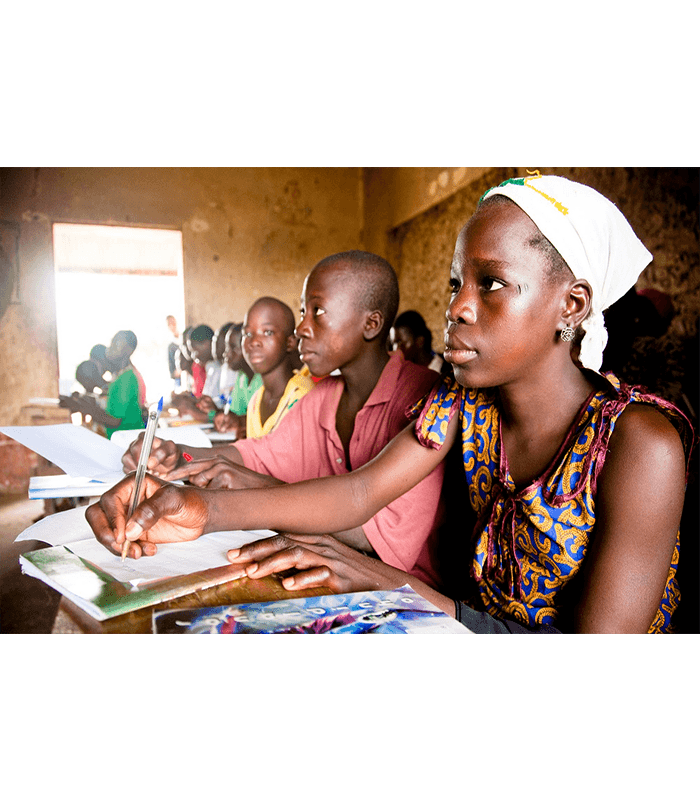
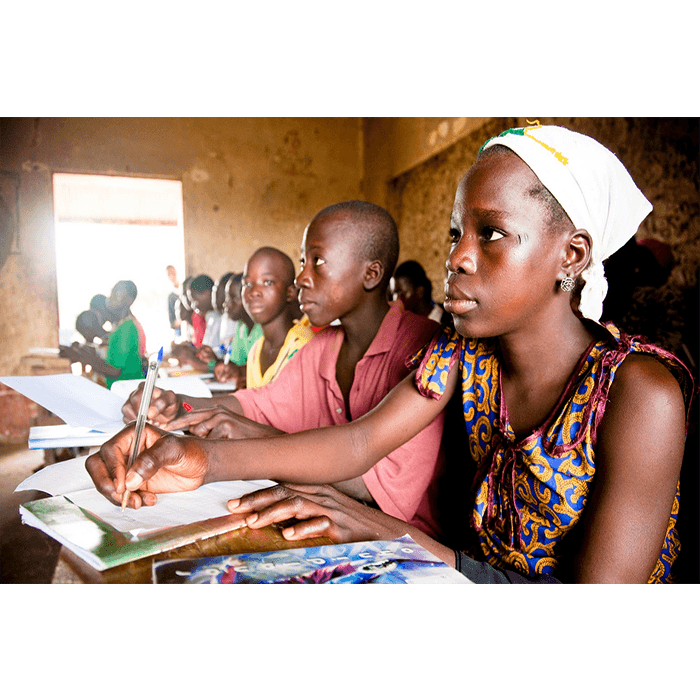
Commit

diff --git a/src/components/decades/1970s/style-1970.css b/src/components/decades/1970s/style-1970.css
@@ -4,7 +4,7 @@
   display: flex;
   max-width: 100%;
   flex: 0 0 100%;
-  padding: 3.5em 5em;
+  padding: 80px;
   justify-content: center;
 }
 
@@ -27,12 +27,13 @@
 }
 
 .small {
-  display: flex;
-  max-width: 760px;
+  flex: 0 0 80%;
+  max-width: 80%;
 }
 
 .wide {
   flex: 0 0 115%;
+  max-width: 115%;
 }
 
 .event-container-sm {
@@ -60,9 +61,9 @@
   flex-direction: column;
   text-align: left;
   flex: 0 0 60%;
-  padding-top: 0;
+  padding: 80px 70px;
+  justify-content: center;
   align-items: flex-start;
-  align-content: flex-start;
 }
 
 .endcap {
@@ -222,6 +223,14 @@ p.blurb {
   font-size: 0.9em;
   font-style: italic;
   width: 40%;
+  margin-top: 5px;
+}
+
+.caption-right {
+  font-size: 0.8rem;
+  float: right;
+  font-style: italic;
+  width: 60%;
   margin-top: 5px;
 }
 
@@ -391,6 +400,11 @@ img {
   margin: 0;
 }
 
+.narrative img {
+  width: 50%;
+  margin: 0 auto;
+}
+
 .profile-content {
   width: 45%;
 }
@@ -419,6 +433,48 @@ img {
 /* extras */
 img.ani:hover {
   margin-top: -30px;
+}
+
+.multi-gradient {
+  background: linear-gradient(
+    45deg,
+    hsla(269, 49%, 37%, 1) 0%,
+    hsla(347, 68%, 39%, 1) 54%,
+    hsla(45, 67%, 52%, 1) 100%
+  );
+  background: -moz-linear-gradient(
+    45deg,
+    hsla(269, 49%, 37%, 1) 0%,
+    hsla(347, 68%, 39%, 1) 54%,
+    hsla(45, 67%, 52%, 1) 100%
+  );
+  background: -webkit-linear-gradient(
+    45deg,
+    #5d308d 0%,
+    #a7203d 54%,
+    hsla(45, 67%, 52%, 1) 100%
+  );
+}
+
+.gradient-yr {
+  background: linear-gradient(
+    130deg,
+    hsla(347, 68%, 39%, 1) 40%,
+    hsla(45, 67%, 52%, 1) 100%
+  );
+  color: #ffffff;
+}
+
+.gradient-border {
+  border-image-slice: 1;
+  border: 10px solid white;
+  border-width: 5px;
+}
+.gradient-border-multi {
+  border-width: 14px;
+  border-style: solid;
+  border-image: linear-gradient(45deg, #a7203d, #5d308d) 1;
+  height: 95%;
 }
 
 @media (max-width: 767px) {

diff --git a/src/components/decades/2000s/Event7-wangari.jsx b/src/components/decades/2000s/Event7-wangari.jsx
@@ -2,18 +2,18 @@ import "./style-2000.css";
 
 const Event7 = () => {
   return (
-    <div className="event-container narrative panel-gray">
+    <div className="event-container narrative panel-purple">
       <div>
-        <h1 className="honors-gray">Challenger</h1>
+        <h1 className="honors-white">Challenger</h1>
         <h1 className="date">April 26</h1>
-        <h1 className="year-sm purple-txt">2006</h1>
+        <h1 className="year-sm white-txt">2006</h1>
         <h2>Inspiring peace</h2>
         <p>
           Kenyan environmentalist and political activist{" "}
           <strong>Wangari Maathai</strong>, winner of the 2004 Nobel Peace
           Prize—the first African woman to be so honored—
           <a
-            className="purple-txt"
+            className="white-txt"
             href="https://www.cmc.edu/athenaeum/historical-archives-apr-26-2006"
             aria-label="Athenaeum Archive (opens in new tab)"
             target="_blank"

diff --git a/src/components/decades/1980s/style-1980.css b/src/components/decades/1980s/style-1980.css
@@ -70,38 +70,6 @@ ul {
   margin-top: -20%;
 }
 
-.multi-gradient {
-  background: linear-gradient(
-    45deg,
-    hsla(269, 49%, 37%, 1) 0%,
-    hsla(347, 68%, 39%, 1) 54%,
-    hsla(45, 67%, 52%, 1) 100%
-  );
-  background: -moz-linear-gradient(
-    45deg,
-    hsla(269, 49%, 37%, 1) 0%,
-    hsla(347, 68%, 39%, 1) 54%,
-    hsla(45, 67%, 52%, 1) 100%
-  );
-  background: -webkit-linear-gradient(
-    45deg,
-    #5d308d 0%,
-    #a7203d 54%,
-    hsla(45, 67%, 52%, 1) 100%
-  );
-}
-.gradient-border {
-  border-image-slice: 1;
-  border: 10px solid white;
-  border-width: 5px;
-}
-.gradient-border-multi {
-  border-width: 14px;
-  border-style: solid;
-  border-image: linear-gradient(45deg, #a7203d, #5d308d) 1;
-  height: 95%;
-}
-
 .celebration {
   background-image: url("/src/assets/name-change-celebration-collage.png");
   height: 100%;

diff --git a/src/components/decades/2000s/Event11.jsx b/src/components/decades/2000s/Event11.jsx
@@ -2,15 +2,13 @@ import "./style-2000.css";
 
 const Event11 = () => {
   return (
-    <div className="event-container small panel-purple">
+    <div className="event-container panel-purple">
       <div className="content endcap">
-        <div>
-          <p>
-            The 2000s had opened many doors — including those taking shape at
-            the Kravis Center — and set the College up for ongoing success.
-            Women at CMC continued to make their mark as the 2010s began.
-          </p>
-        </div>
+        <p className="lead-text">
+          The 2000s had opened many doors — including those taking shape at the
+          Kravis Center — and set the College up for ongoing success. Women at
+          CMC continued to make their mark as the 2010s began.
+        </p>
       </div>
     </div>
   );

diff --git a/src/components/decades/2010s/Event6-weatherford.jsx b/src/components/decades/2010s/Event6-weatherford.jsx
@@ -3,16 +3,16 @@ import mary from "../../../assets/mary-weatherford-headshot.png";
 
 const Event6 = () => {
   return (
-    <div className="event-container small">
-      <div className="content info-panel">
+    <div className="event-container info-panel">
+      <div className="content">
         <div>
           <img src={mary} />
-          <p className="caption">
+          <p className="caption-right">
             <em>Photo by Antony Hoffman courtesy of Gagosian.</em>
           </p>
         </div>
         <h1 className="date">September 16</h1>
-        <h1 className="year-sm maroon-txt">2014</h1>
+        <h2 className="year-sm maroon-txt">2014</h2>
         <h2>Art and Life</h2>
         <p>
           On September 16, 2014, the mural{" "}

diff --git a/src/components/decades/1990s/Event4-harriet.jsx b/src/components/decades/1990s/Event4-harriet.jsx
@@ -3,7 +3,7 @@ import harriet from "../../../assets/1990-profile-harriet.png";
 
 const Event4 = () => {
   return (
-    <div className="event-container">
+    <div className="event-container small">
       <div className="content">
         <h1 className="honors-yellow">Notables</h1>
         <div className="col-3">
@@ -24,8 +24,8 @@ const Event4 = () => {
             of CMC’s inaugural Integrated Sciences Advisory Council.
           </p>
         </div>
-        <div className="col-2">
-          <img src={harriet}></img>
+        <div className="col-3">
+          <img src={harriet} alt="Harriet Nembhard ’91."></img>
         </div>
       </div>
     </div>

diff --git a/src/components/decades/1990s/Event8-tanya.jsx b/src/components/decades/1990s/Event8-tanya.jsx
@@ -3,7 +3,7 @@ import tanya from "../../../assets/1990-profile-tanya.png";
 
 const Event8 = () => {
   return (
-    <div className="event-container">
+    <div className="event-container small">
       <div className="content">
         <div className="col-3">
           <h1 className="date">May</h1>
@@ -29,8 +29,8 @@ const Event8 = () => {
             <p>Read more about Dr. Altmann</p>
           </a>
         </div>
-        <div className="col-2">
-          <img src={tanya}></img>
+        <div className="col-3">
+          <img src={tanya} alt="Tanya Altman ’94." />
         </div>
       </div>
     </div>

diff --git a/src/components/decades/2010s/style-2010.css b/src/components/decades/2010s/style-2010.css
@@ -6,10 +6,20 @@
 }
 
 .info-panel {
+  max-width: 500px;
+}
+
+.info-panel h2 {
+  width: 100%;
+}
+
+.info-panel img {
+  width: 75%;
+  margin: 0 auto;
+  display: flex;
   flex-direction: column;
-  flex-wrap: nowrap;
+  flex-wrap: wrap;
   align-items: flex-start;
-  max-width: 550px;
 }
 
 .border-01 {
@@ -26,17 +36,10 @@
 .honors-trailblazer {
   font-size: 4em;
   color: #ffffff;
-  position: absolute;
-  top: 0;
 }
 
 /* images */
 .red-outline {
   border-left: 12px solid #a6203e;
   border-bottom: 12px solid #a6203e;
-}
-
-.info-panel img {
-  width: 80%;
-  margin: 0 auto;
 }

diff --git a/src/components/decades/2000s/Event6-asuman.jsx b/src/components/decades/2000s/Event6-asuman.jsx
@@ -3,7 +3,7 @@ import asuman from "../../../assets/2000-profile-asuman.png";
 
 const Event6 = () => {
   return (
-    <div className="event-container panel-gray">
+    <div className="event-container small panel-gray">
       <div className="content">
         <div className="col-3">
           <h1 className="date">April 8</h1>
@@ -25,7 +25,7 @@ const Event6 = () => {
             Association of America.
           </p>
         </div>
-        <div className="col-2">
+        <div className="col-3">
           <img src={asuman} alt="Asuman Aksoy." />
         </div>
       </div>

diff --git a/src/components/decades/1990s/Event5-christine.jsx b/src/components/decades/1990s/Event5-christine.jsx
@@ -3,10 +3,13 @@ import christine from "../../../assets/1990-profile-christine-w.png";
 
 const Event5 = () => {
   return (
-    <div className="event-container">
+    <div className="event-container small">
       <div className="content">
-        <div className="col-2">
-          <img src={christine}></img>
+        <div className="col-3">
+          <img
+            src={christine}
+            alt="Christine Huddleson at CMC and present day."
+          />
         </div>
         <div className="col-3">
           <h2>Student Leader</h2>

diff --git a/src/components/decades/1980s/Event13-lorraine.jsx b/src/components/decades/1980s/Event13-lorraine.jsx
@@ -5,8 +5,8 @@ const Event13 = () => {
   return (
     <div className="event-container narrative panel-gray">
       <div className="content">
-        <div className="col-4">
-          <img src={lorraine}></img>
+        <div className="col-5">
+          <img src={lorraine} />
           <h1 className="year-sm maroon-txt">1988</h1>
           <h2>Alumni Association breaks barriers</h2>
           <p>

diff --git a/src/components/decades/1980s/Event11-jil.jsx b/src/components/decades/1980s/Event11-jil.jsx
@@ -5,7 +5,7 @@ const Event10 = () => {
   return (
     <div className="event-container narrative panel-white">
       <div className="content">
-        <div className="col-4">
+        <div className="col-5">
           <img src={jil02} alt-text="Jil Stark, January 1986."></img>
           <h1 className="year-sm maroon">1987</h1>
           <h2>Familiar face at the Ath</h2>
